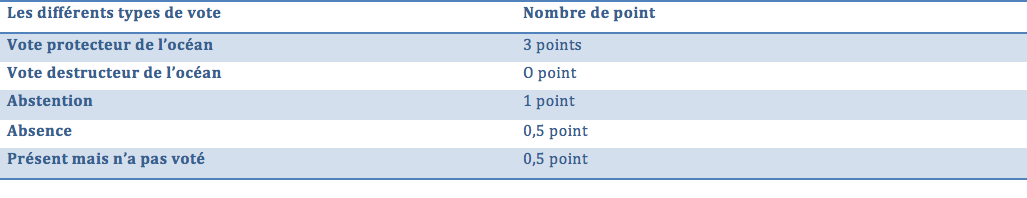
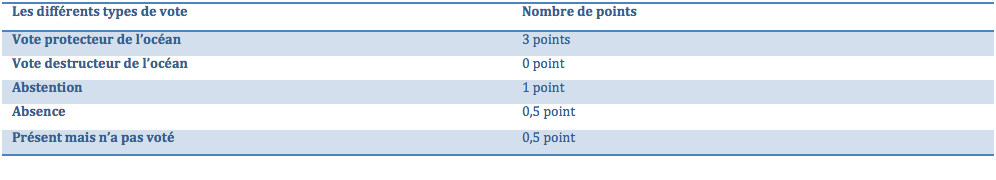
calcul

diff --git a/calculs-notes.html b/calculs-notes.html
@@ -43,7 +43,7 @@
                 <h4>2- LE CALCUL DE LA NOTE</h4>
                 <p>Le calcul de la note a pour point de départ ce tableau : </p>
                 <img src="./img/calcul de la note.png" class="img-fluid"/>
-                <p>Une fois que tous les points ont été additionnés, le total de chaque député a été divisé par le total maximum de point.</br>En l’espèce, 24 votes ont été pris en compte, le total de chaque député a donc été divisé par 72 (=24x3). Ainsi, par exemple, Karima Delli a eu un score total de 70, qui a ensuite été divisé par 72 (70/72 = 0,97). </br>Cette règle a été appliquée uniformément à tous les députés, à l’exception des députés qui ont été inactifs pendant une période, qu'il s'agisse de ceux partis avant la fin de la législature ou de ceux qui les ont remplacés. En effet, le nombre par lequel leur total est divisé est modifié en fonction de leur date de prise de fonction ou de départ.</br>Par exemple, Louis Aliot a quitté sa fonction de député en juillet 2017 et sur les votes que nous avons pris en compte il était actif que pour 3 d’entre eux, ainsi son total n'est divisé que par 9 (=3x3). La députée qui le remplace, France Jamet, est devenue députée en juillet 2017 et elle a donc été active en tant que députée européenne pour 21 votes, son nombre total de point est alors divisé par 63 (=21x3).</br>Ainsi, chaque député se voit attribuer une moyenne allant de 0 à 1.</br>De manière à clarifier cette moyenne, elle a été multipliée par 20 de façon à obtenir une note sur 20 pour chaque député. Ainsi, pour reprendre l'exemple de Karima Delli, elle a obtenu une moyenne de 0,97 et donc une note sur 20 de 19,4 (0,97x20=19,4).</br> Voici les notes représentées dans un graphique : </p>
+                <p>Une fois que tous les points ont été additionnés, le total de chaque député a été divisé par le total maximum de point.</br>En l’espèce, 24 votes ont été pris en compte, le total de chaque député a donc été divisé par 72 (=24x3). Ainsi, par exemple, Karima Delli a eu un score total de 70, qui a ensuite été divisé par 72 (70/72 = 0,97). </br>Cette règle a été appliquée uniformément à tous les députés, à l’exception des députés qui ont été inactifs pendant une période, qu'il s'agisse de ceux partis avant la fin de la législature ou de ceux qui les ont remplacés. En effet, le nombre par lequel leur total est divisé est modifié en fonction de leur date de prise de fonction ou de départ.</br>Par exemple, Louis Aliot a quitté sa fonction de député en juillet 2017 et sur les votes que nous avons pris en compte il était actif que pour 3 d’entre eux, ainsi son total n'est divisé que par 9 (=3x3). La députée qui le remplace, France Jamet, est devenue députée en juillet 2017 et elle a donc été active en tant que députée européenne pour 21 votes, son nombre total de points est alors divisé par 63 (=21x3).</br>Ainsi, chaque député se voit attribuer une moyenne allant de 0 à 1.</br>De manière à clarifier cette moyenne, elle a été multipliée par 20 de façon à obtenir une note sur 20 pour chaque député. Ainsi, pour reprendre l'exemple de Karima Delli, elle a obtenu une moyenne de 0,97 et donc une note sur 20 de 19,4 (0,97x20=19,4).</br> Voici les notes représentées dans un graphique : </p>
                 <img src="./img/chart.png" class="img-fluid"/>
                 <p>Un code couleur a ensuite été attribué : 
                 </br>- vert pour les députés ayant une note allant de 14/20 à 20/20 : + de 70% de leurs votes sont PROTECTEURS de l'océan
